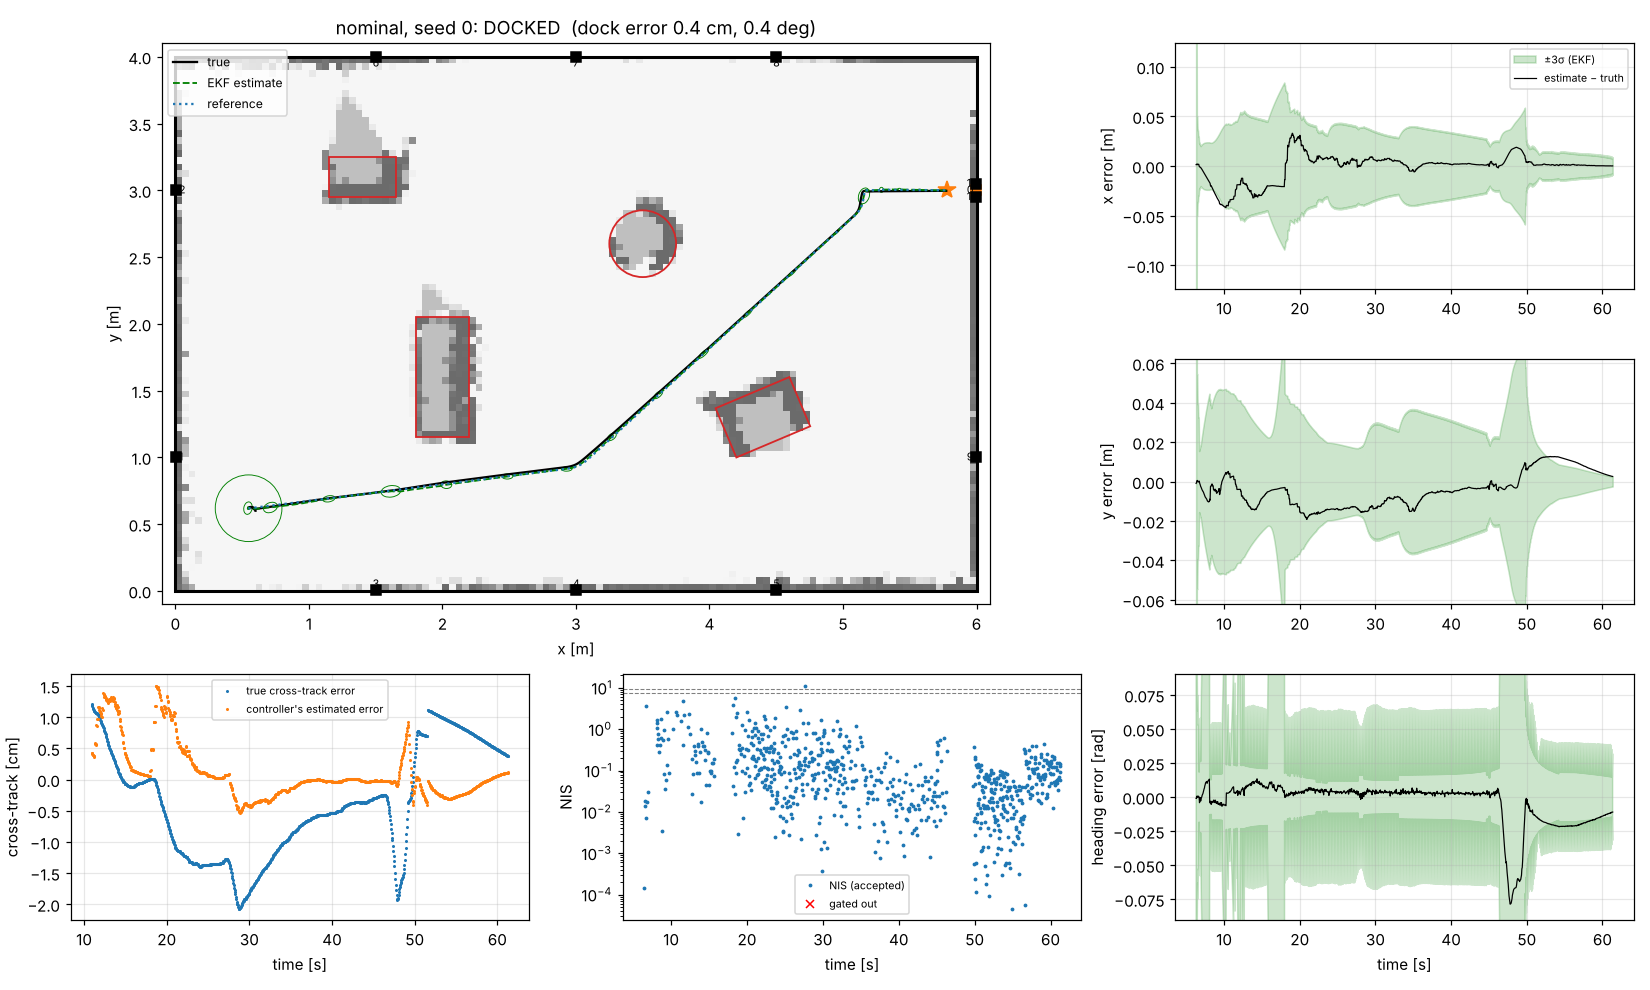
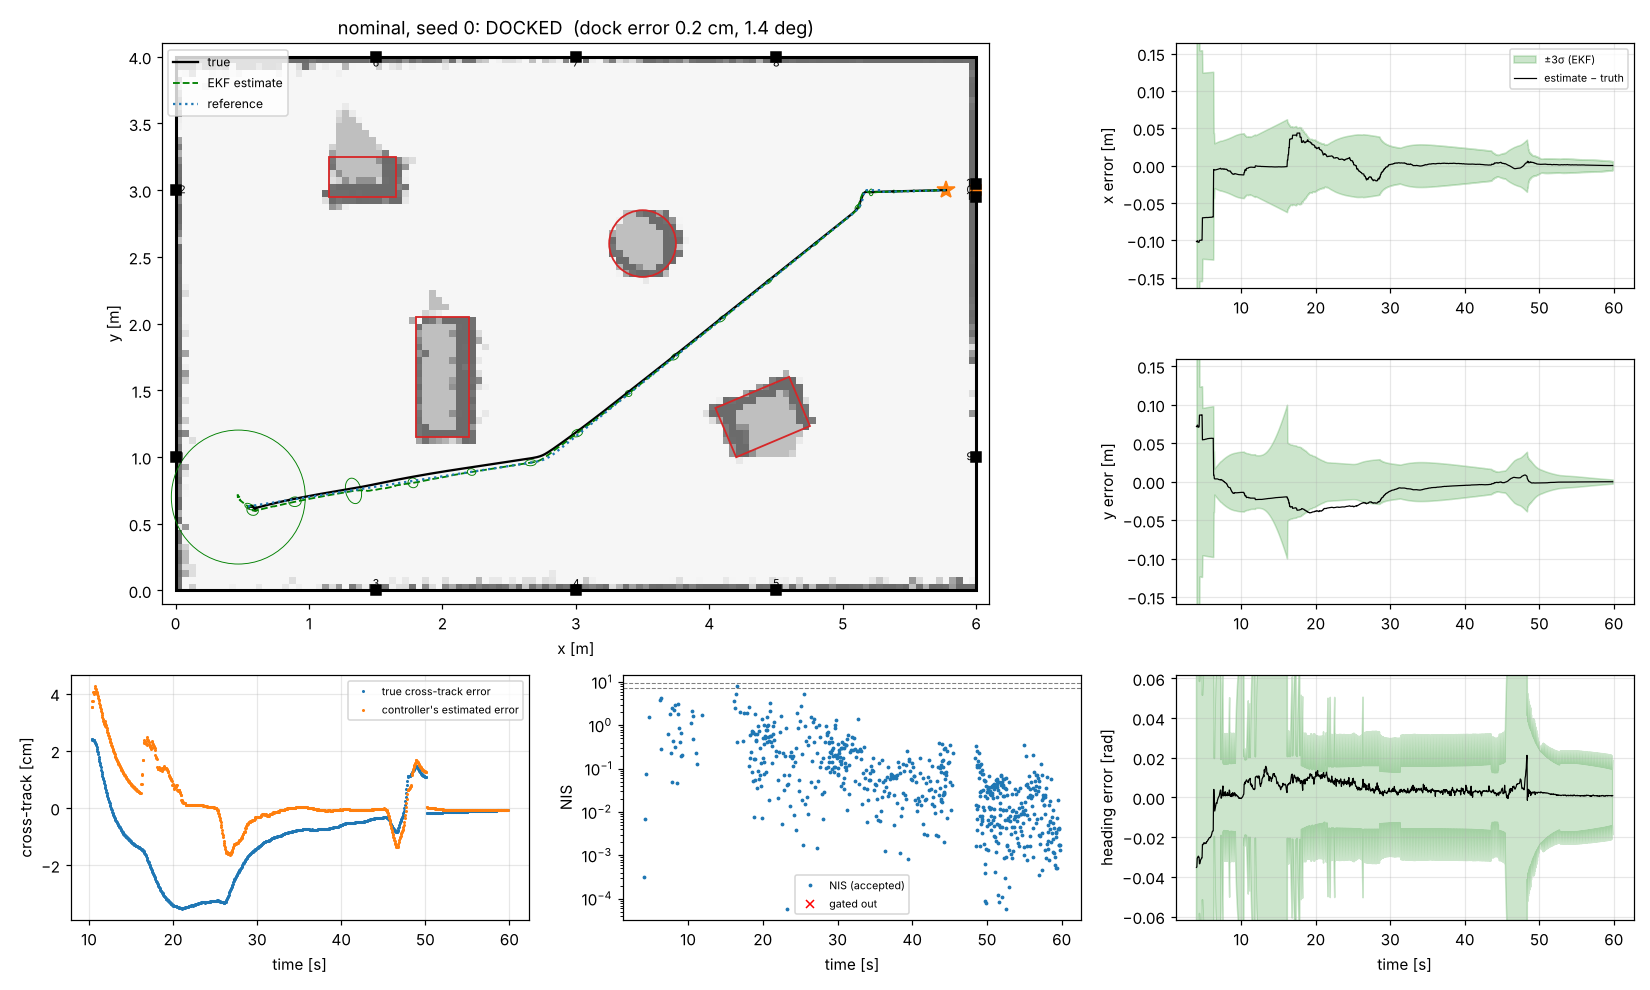
Recorder: keep latest LiDAR scan and detection count between sensor frames

diff --git a/tb3nav/viz.py b/tb3nav/viz.py
@@ -91,13 +91,18 @@ class Recorder:
         self.writer = cv2.VideoWriter(str(path), cv2.VideoWriter_fourcc(*"mp4v"), fps,
                                       (self.W, self.H))
         self.last_cam = np.zeros((self.H // 2, self.W // 3, 3), np.uint8)
+        self.last_scan_pkt = None   # LiDAR runs at 5 Hz: keep the latest scan for display
+        self.n_seen = 0             # camera runs at 10 Hz: keep the latest detection count
         self.title = ""
 
     def __call__(self, sim, robot, pkt):
         if self.ren is None:
             self.ren = mujoco.Renderer(sim.model, self.H, int(self.W * 2 / 3))
         self.k += 1
+        if pkt.scan is not None:
+            self.last_scan_pkt = pkt
         if pkt.image is not None:
+            self.n_seen = len(robot.last_obs)
             img = pkt.image.copy()
             for o in robot.last_obs:
                 cv2.polylines(img, [o.corners.astype(np.int32)], True, (0, 255, 0), 2)
@@ -110,7 +115,7 @@ class Recorder:
         # follow the robot loosely
         self.cam.lookat[:2] = 0.8 * self.cam.lookat[:2] + 0.2 * truth[:2]
         self.ren.update_scene(sim.data, camera=self.cam)
-        draw_overlays(self.ren.scene, robot, pkt)
+        draw_overlays(self.ren.scene, robot, self.last_scan_pkt)
         left = self.ren.render()
         panel = np.full((self.H // 2, self.W // 3, 3), 25, np.uint8)
         est, P = robot.ekf.s, robot.ekf.P
@@ -119,7 +124,7 @@ class Recorder:
                  f"true  x={truth[0]:5.2f} y={truth[1]:5.2f} th={np.degrees(truth[2]):6.1f}",
                  f"est   x={est[0]:5.2f} y={est[1]:5.2f} th={np.degrees(est[2]):6.1f}",
                  f"3sig  xy={3*np.sqrt(max(P[0,0],P[1,1])):.3f} m  th={np.degrees(3*np.sqrt(P[2,2])):.1f} deg",
-                 f"|est-true| = {100*err:5.1f} cm", f"markers seen: {len(robot.last_obs)}",
+                 f"|est-true| = {100*err:5.1f} cm", f"markers seen: {self.n_seen}",
                  "green: estimate+3sig  blue: ref", "yellow: LiDAR @ est. pose"]
         for i, l in enumerate(lines):
             cv2.putText(panel, l, (8, 22 + 26 * i), cv2.FONT_HERSHEY_SIMPLEX, 0.5,
